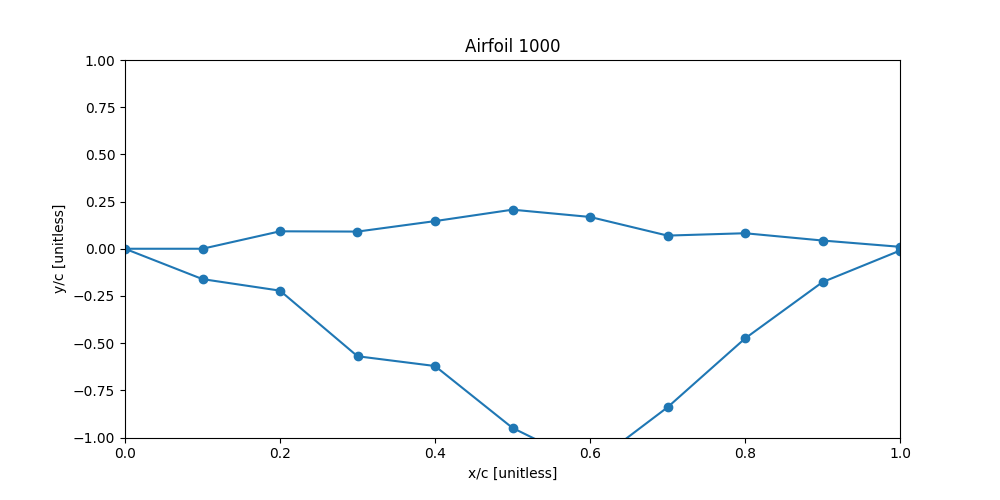
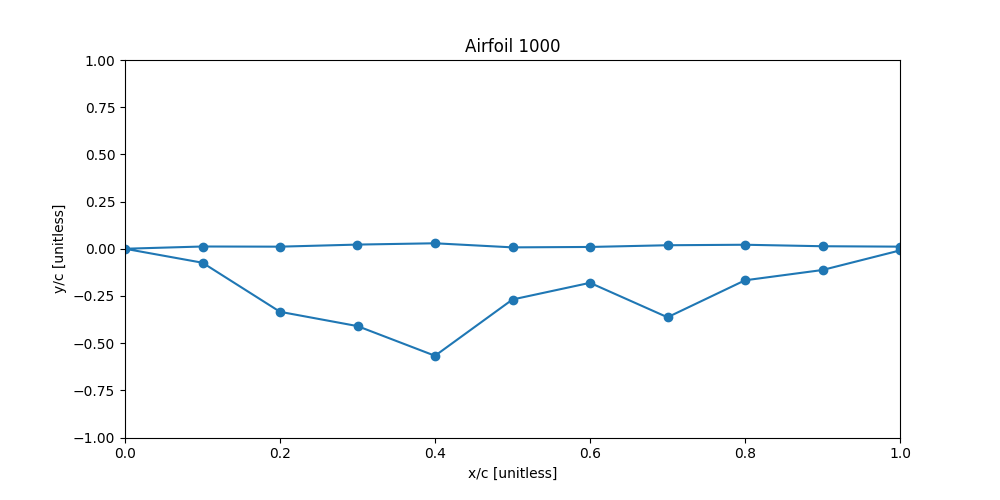
Corrected step function reward check order. Increased maximum num of peaks to 2. Decreased peak loss to -10.0

diff --git a/Vortex_Panel_Solver.py b/Vortex_Panel_Solver.py
@@ -367,43 +367,34 @@ class Vortex_Panel_Solver():
         temp = self.surface_y[0][:-1] * action
         s2 = np.append(temp, temp[0]-0.02).reshape(1,2*self.n_panels_per_surface+1)
             
-        ####################################################### REWARD FUNCTION #######################################################
-        
-        # If the airfoil is too spikey, return a negative reward and the new airfoil
-        # Too spikey is defined as having more than a single peak per surface
+        # Determine airfoil spikeness
         y_coords_upper = (s2[0][0:self.n_panels_per_surface+1])[::-1]
         y_coords_lower = (s2[0][self.n_panels_per_surface:2*self.n_panels_per_surface+1])
         n_peaks_upper = np.size(find_peaks(y_coords_upper)[0])
         n_peaks_lower = np.size(find_peaks(-1.0*y_coords_lower)[0])
-        if (n_peaks_upper > 1 or n_peaks_lower > 1):
-            
-            # Update the stored airfoil
-            upper_surface_y = s2[0][0:self.n_panels_per_surface+1].reshape(1, self.n_panels_per_surface+1)
-            lower_surface_y = s2[0][self.n_panels_per_surface: 2*self.n_panels_per_surface+1].reshape(1, self.n_panels_per_surface+1)
-            upper_surface_normal = self.get_normal(self.upper_surface_x, upper_surface_y)
-            lower_surface_normal = self.get_normal(self.lower_surface_x, lower_surface_y)
-            self.surface_y = s2
-            self.surface_normal = np.append(upper_surface_normal, lower_surface_normal, axis=1)
         
-            # Visualize airfoil
-            if(vis_foil):
-                self.visualize_airfoil(n)
-                
-            return s2.reshape(2 * self.n_panels_per_surface + 1), -10.0, done
+        # Determine max flow turning angle on upper and lower surfaces
         
+        ####################################################### REWARD FUNCTION #######################################################
         # If the action moves any points outside of the acceptable range, return a large negative reward and the old airfoil
         # The acceptable range is any y/c between [-1.0, 1.0]
         # The acceptable range for the TE is y/c between [-0.10,0.10]
-        elif (max(s2[0]) > 1.0 or min(s2[0]) < -1.0) or (s2[0][0] > 0.10 or s2[0][-1] < -0.10):
+        if (max(s2[0]) > 1.0 or min(s2[0]) < -1.0) or (s2[0][0] > 0.10 or s2[0][-1] < -0.10):
             # Visualize airfoil
             if(vis_foil):
                 self.visualize_airfoil(n)
-                
             return s1, -100.0, done
         
         # If the lower surface every intersects the upper surface anywhere but the LE, return a large negative reward and the new airfoil
         elif (y_coords_upper < y_coords_lower)[1:].any():
-            
+            # Visualize airfoil
+            if(vis_foil):
+                self.visualize_airfoil(n)
+            return s1, -100.0, done
+        
+        # If the airfoil is too spikey, return a negative reward and the new airfoil
+        # Too spikey is defined as having more than a 2 peaks per surface
+        elif ((n_peaks_upper > 2) or (n_peaks_lower > 2)):
             # Update the stored airfoil
             upper_surface_y = s2[0][0:self.n_panels_per_surface+1].reshape(1, self.n_panels_per_surface+1)
             lower_surface_y = s2[0][self.n_panels_per_surface: 2*self.n_panels_per_surface+1].reshape(1, self.n_panels_per_surface+1)
@@ -411,16 +402,18 @@ class Vortex_Panel_Solver():
             lower_surface_normal = self.get_normal(self.lower_surface_x, lower_surface_y)
             self.surface_y = s2
             self.surface_normal = np.append(upper_surface_normal, lower_surface_normal, axis=1)
-            
+        
             # Visualize airfoil
             if(vis_foil):
                 self.visualize_airfoil(n)
-                
-            return s2.reshape(2 * self.n_panels_per_surface + 1), -100.0, done
+            return s2.reshape(2 * self.n_panels_per_surface + 1), -10.0, done
+        
+        # If the airfoil has a turning angle that is too great (>90 degrees), return a negative reward and the new airfoil
+        elif ():
+            return s2.reshape(2 * self.n_panels_per_surface + 1), -10.0, done
         
         # If the action is acceptable, return a reward proportional to the mean abs percent error between the new airfoil and the design parameters
         else:
-            
             # Update the stored airfoil
             upper_surface_y = s2[0][0:self.n_panels_per_surface+1].reshape(1, self.n_panels_per_surface+1)
             lower_surface_y = s2[0][self.n_panels_per_surface: 2*self.n_panels_per_surface+1].reshape(1, self.n_panels_per_surface+1)
@@ -467,7 +460,6 @@ class Vortex_Panel_Solver():
             # Visualize airfoil
             if(vis_foil):
                 self.visualize_airfoil(n)
-                
             return s2.reshape(2 * self.n_panels_per_surface + 1), reward, done
         
         ####################################################### /REWARD FUNCTION ######################################################

diff --git a/Main.py b/Main.py
@@ -28,7 +28,7 @@ def run_set(curr_set, n_sets, n_episodes, env, agent):
             a1 = agent.get_action(s1)
             
             # Execute action a1 in emulator and observer reward r and next state s2
-            vis_foil = (n % 100 == 0)
+            vis_foil = (n % 1000 == 0)
             n += 1 
             (s2, r, done) = env.step(a1, vis_foil=vis_foil, n=n-1)
             
